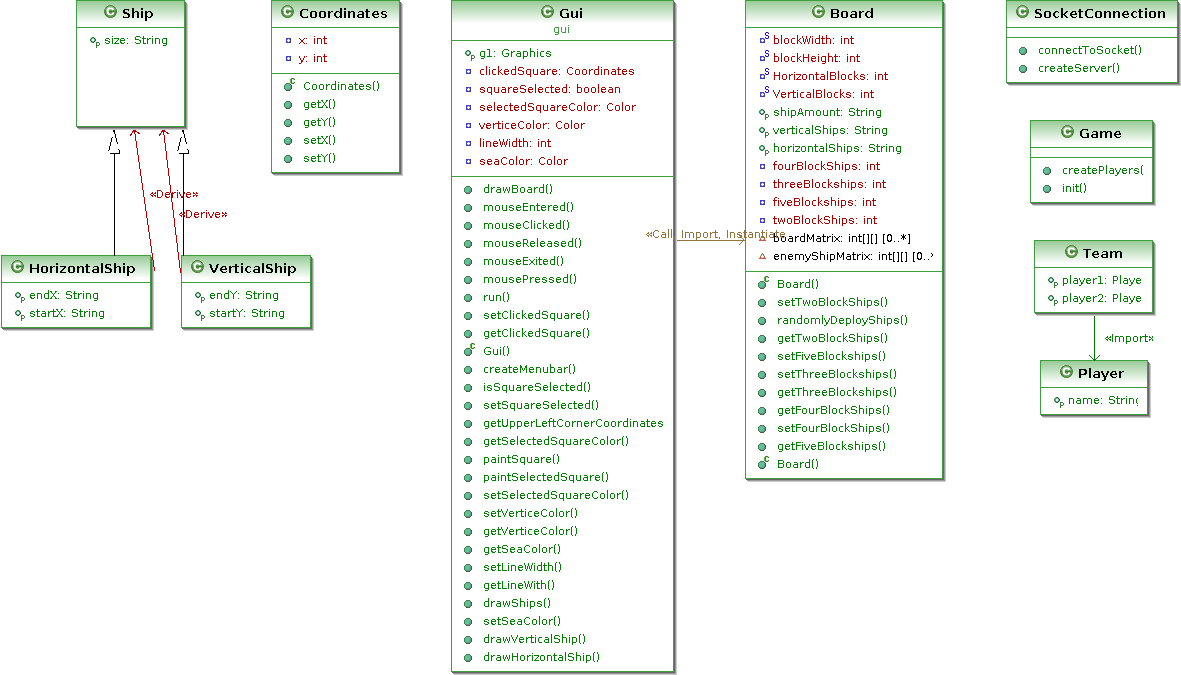
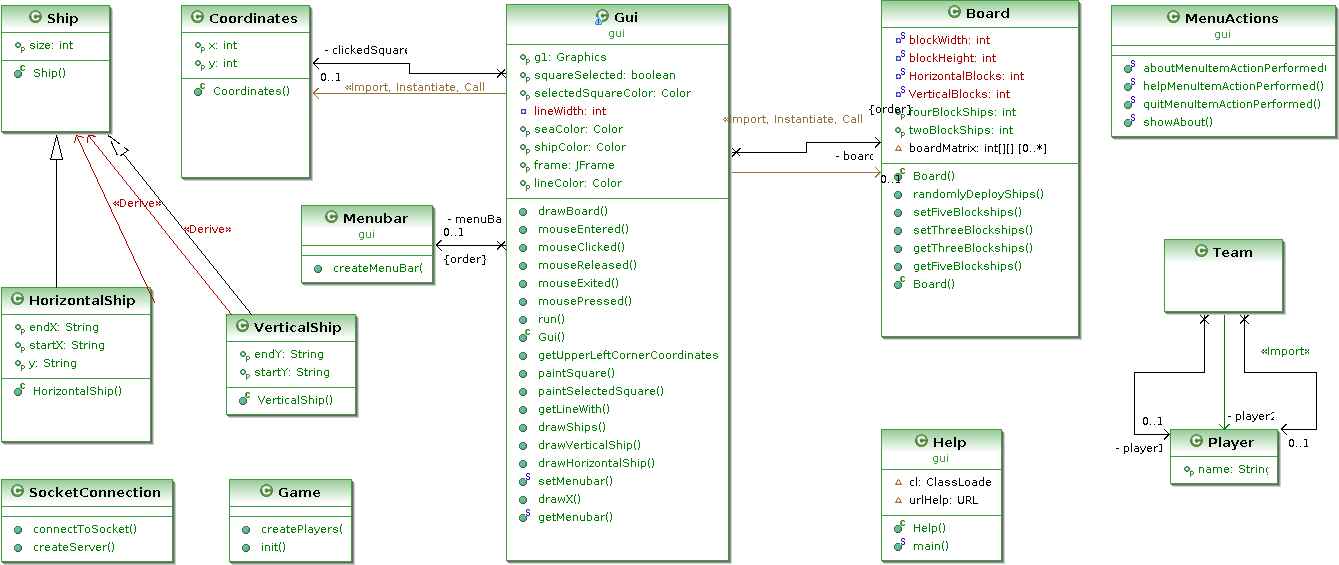
Updated UML class diagram.

diff --git a/sink-ship/src/gui/Gui.java b/sink-ship/src/gui/Gui.java
@@ -34,21 +34,51 @@ import javax.swing.JOptionPane;
 import javax.swing.JPanel;
 
 /**
- * @author Petri Tuononen
+ * @author  Petri Tuononen
  */
 public class Gui extends JPanel implements Runnable, MouseListener {
 
 	private static final long serialVersionUID = 8491464846988855678L;
 	//global variables
+	/**
+	 * @uml.property  name="board"
+	 * @uml.associationEnd  
+	 */
 	private static Board board;
+	/**
+	 * @uml.property  name="clickedSquare"
+	 * @uml.associationEnd  
+	 */
 	private Coordinates clickedSquare;
+	/**
+	 * @uml.property  name="squareSelected"
+	 */
 	private boolean squareSelected = false;
+	/**
+	 * @uml.property  name="seaColor"
+	 */
 	private Color seaColor = new Color(81,167,255);
+	/**
+	 * @uml.property  name="selectedSquareColor"
+	 */
 	private Color selectedSquareColor = new Color(159, 227, 126);
+	/**
+	 * @uml.property  name="lineColor"
+	 */
 	private Color lineColor = new Color(67,104, 142);
+	/**
+	 * @uml.property  name="shipColor"
+	 */
 	private Color shipColor = new Color(217, 56, 56);
 	private int lineWidth = 2;
+	/**
+	 * @uml.property  name="frame"
+	 */
 	public JFrame frame;
+	/**
+	 * @uml.property  name="menuBar"
+	 * @uml.associationEnd  
+	 */
 	private static Menubar menuBar;
 //	private JMenu menu;
 //	private JMenu menu2;
@@ -166,7 +196,8 @@ public class Gui extends JPanel implements Runnable, MouseListener {
 
 	/**
 	 * Get frame.
-	 * @return frame 
+	 * @return  frame
+	 * @uml.property  name="frame"
 	 */
 	public JFrame getFrame() {
 		return frame;
@@ -174,7 +205,8 @@ public class Gui extends JPanel implements Runnable, MouseListener {
 	
 	/**
 	 * Set frame.
-	 * @return frame 
+	 * @return  frame
+	 * @uml.property  name="frame"
 	 */
 	public void setFrame(JFrame frame) {
 		this.frame = frame;
@@ -229,7 +261,8 @@ public class Gui extends JPanel implements Runnable, MouseListener {
 
 	/**
 	 * Set width of the line.
-	 * @param lineWidth
+	 * @param  lineWidth
+	 * @uml.property  name="lineWidth"
 	 */
 	public void setLineWidth(int lineWidth) {
 		this.lineWidth = lineWidth;
@@ -237,7 +270,8 @@ public class Gui extends JPanel implements Runnable, MouseListener {
 
 	/**
 	 * Get color of the sea.
-	 * @return seaColor Color
+	 * @return  seaColor Color
+	 * @uml.property  name="seaColor"
 	 */
 	public Color getSeaColor() {
 		return seaColor;
@@ -245,7 +279,8 @@ public class Gui extends JPanel implements Runnable, MouseListener {
 
 	/**
 	 * Set color of the sea.
-	 * @param seaColor Color
+	 * @param seaColor  Color
+	 * @uml.property  name="seaColor"
 	 */
 	public void setSeaColor(Color seaColor) {
 		this.seaColor = seaColor;
@@ -253,7 +288,8 @@ public class Gui extends JPanel implements Runnable, MouseListener {
 
 	/**
 	 * Get color of the selected square.
-	 * @return selectedSquareColor Color
+	 * @return  selectedSquareColor Color
+	 * @uml.property  name="selectedSquareColor"
 	 */
 	public Color getSelectedSquareColor() {
 		return selectedSquareColor;
@@ -261,7 +297,8 @@ public class Gui extends JPanel implements Runnable, MouseListener {
 
 	/**
 	 * Set color for the selected square.
-	 * @param selectedSquareColor
+	 * @param  selectedSquareColor
+	 * @uml.property  name="selectedSquareColor"
 	 */
 	public void setSelectedSquareColor(Color selectedSquareColor) {
 		this.selectedSquareColor = selectedSquareColor;
@@ -269,7 +306,8 @@ public class Gui extends JPanel implements Runnable, MouseListener {
 
 	/**
 	 * Get the color of the ship.
-	 * @return shipColor
+	 * @return  shipColor
+	 * @uml.property  name="shipColor"
 	 */
 	public Color getShipColor() {
 		return shipColor;
@@ -277,7 +315,8 @@ public class Gui extends JPanel implements Runnable, MouseListener {
 
 	/**
 	 * Set the color for the ship.
-	 * @param shipColor
+	 * @param  shipColor
+	 * @uml.property  name="shipColor"
 	 */
 	public void setShipColor(Color shipColor) {
 		this.shipColor = shipColor;
@@ -285,7 +324,8 @@ public class Gui extends JPanel implements Runnable, MouseListener {
 
 	/**
 	 * Get color of the line.
-	 * @return verticeColor Color
+	 * @return  verticeColor Color
+	 * @uml.property  name="lineColor"
 	 */
 	public Color getLineColor() {
 		return lineColor;
@@ -293,7 +333,8 @@ public class Gui extends JPanel implements Runnable, MouseListener {
 
 	/**
 	 * Set color of the line..
-	 * @param lineColor Color
+	 * @param lineColor  Color
+	 * @uml.property  name="lineColor"
 	 */
 	public void setLineColor(Color lineColor) {
 		this.lineColor = lineColor;
@@ -302,6 +343,7 @@ public class Gui extends JPanel implements Runnable, MouseListener {
 	/**
 	 * Get clicked square.
 	 * @return
+	 * @uml.property  name="clickedSquare"
 	 */
 	public Coordinates getClickedSquare() {
 		return clickedSquare;
@@ -309,7 +351,8 @@ public class Gui extends JPanel implements Runnable, MouseListener {
 
 	/**
 	 * Set clicked square.
-	 * @param clickedSquare
+	 * @param  clickedSquare
+	 * @uml.property  name="clickedSquare"
 	 */
 	public void setClickedSquare(Coordinates clickedSquare) {
 		this.clickedSquare = clickedSquare;
@@ -318,6 +361,7 @@ public class Gui extends JPanel implements Runnable, MouseListener {
 	/**
 	 * Returns true if square is selected, false otherwise.
 	 * @return
+	 * @uml.property  name="squareSelected"
 	 */
 	public boolean isSquareSelected() {
 		return squareSelected;
@@ -325,7 +369,8 @@ public class Gui extends JPanel implements Runnable, MouseListener {
 
 	/**
 	 * Set selected square.
-	 * @param squareSelected
+	 * @param  squareSelected
+	 * @uml.property  name="squareSelected"
 	 */
 	public void setSquareSelected(boolean squareSelected) {
 		this.squareSelected = squareSelected;

diff --git a/sink-ship/src/general/Board.java b/sink-ship/src/general/Board.java
@@ -17,9 +17,7 @@ along with this program. If not, see <http://www.gnu.org/licenses/>.
 package general;
 
 /**
- * @author Petri Tuononen
- * 
- * TODO: To play against AI or to debug the enemy ships could be placed using the random matrix placement.
+ * @author  Petri Tuononen  TODO: To play against AI or to debug the enemy ships could be placed using the random matrix placement.
  */
 public class Board {
 
@@ -30,6 +28,7 @@ public class Board {
 	
 	/**
 	 * The amount of different size of the ships on the boards.
+	 * @uml.property  name="twoBlockShips"
 	 */
 	private int twoBlockShips;
 
@@ -40,6 +39,7 @@ public class Board {
 
 	/**
 	 * The amount of four block ships on the board.
+	 * @uml.property  name="fourBlockShips"
 	 */
 	private int fourBlockShips;
 	
@@ -75,6 +75,7 @@ public class Board {
 	/**
 	 * Get the amount of the block ships on the board.
 	 * @return
+	 * @uml.property  name="twoBlockShips"
 	 */
 	public int getTwoBlockShips() {
 		return twoBlockShips;
@@ -82,7 +83,8 @@ public class Board {
 
 	/**
 	 * Set the amount of the block ships on the board.
-	 * @param twoBlockShips
+	 * @param  twoBlockShips
+	 * @uml.property  name="twoBlockShips"
 	 */
 	public void setTwoBlockShips(int twoBlockShips) {
 		this.twoBlockShips = twoBlockShips;
@@ -106,7 +108,8 @@ public class Board {
 
 	/**
 	 * Get the amount of four block ships on the board.
-	 * @return fourBlockShips
+	 * @return  fourBlockShips
+	 * @uml.property  name="fourBlockShips"
 	 */
 	public int getFourBlockShips() {
 		return fourBlockShips;
@@ -114,7 +117,8 @@ public class Board {
 
 	/**
 	 * Set the amount of four block ships on the board.
-	 * @param fourBlockShips
+	 * @param  fourBlockShips
+	 * @uml.property  name="fourBlockShips"
 	 */
 	public void setFourBlockShips(int fourBlockShips) {
 		this.fourBlockShips = fourBlockShips;

diff --git a/sink-ship/src/general/Coordinates.java b/sink-ship/src/general/Coordinates.java
@@ -17,12 +17,19 @@
 package general;
 
 /**
- * @author Petri Tuononen
+ * @author  Petri Tuononen
  */
 public class Coordinates {
 
 	//global variables
-	private int x, y;
+	/**
+	 * @uml.property  name="x"
+	 */
+	private int x;
+	/**
+	 * @uml.property  name="y"
+	 */
+	private int y;
 	
 	/**
 	 * Constructor.
@@ -36,7 +43,8 @@ public class Coordinates {
 	
 	/**
 	 * Get value of x.
-	 * @return x
+	 * @return  x
+	 * @uml.property  name="x"
 	 */
 	public int getX() {
 		return x;
@@ -44,7 +52,8 @@ public class Coordinates {
 	
 	/**
 	 * Get value of y.
-	 * @return y
+	 * @return  y
+	 * @uml.property  name="y"
 	 */
 	public int getY() {
 		return y;
@@ -52,7 +61,8 @@ public class Coordinates {
 	
 	/**
 	 * Set value for x.
-	 * @param x
+	 * @param  x
+	 * @uml.property  name="x"
 	 */
 	public void setX(int x) {
 		this.x = x;
@@ -60,7 +70,8 @@ public class Coordinates {
 	
 	/**
 	 * Set value of y.
-	 * @param y
+	 * @param  y
+	 * @uml.property  name="y"
 	 */
 	public void setY(int y) {
 		this.y = y;

diff --git a/sink-ship/src/general/HorizontalShip.java b/sink-ship/src/general/HorizontalShip.java
@@ -17,7 +17,7 @@ along with this program. If not, see <http://www.gnu.org/licenses/>.
 package general;
 
 /**
- * @author Petri Tuononen
+ * @author  Petri Tuononen
  */
 public class HorizontalShip extends Ship {
 	
@@ -42,6 +42,7 @@ public class HorizontalShip extends Ship {
 	/**
 	 * Get y coordinate.
 	 * @return
+	 * @uml.property  name="y"
 	 */
 	public String getY() {
 		return y;
@@ -49,7 +50,8 @@ public class HorizontalShip extends Ship {
 
 	/**
 	 * Set y coodinate.
-	 * @param y
+	 * @param  y
+	 * @uml.property  name="y"
 	 */
 	public void setY(String y) {
 		this.y = y;

diff --git a/sink-ship/src/general/Team.java b/sink-ship/src/general/Team.java
@@ -23,6 +23,7 @@ public class Team {
 
 	/**
 	 * @uml.property  name="player1"
+	 * @uml.associationEnd  
 	 */
 	private Player player1;
 
@@ -46,6 +47,7 @@ public class Team {
 
 	/**
 	 * @uml.property  name="player2"
+	 * @uml.associationEnd  
 	 */
 	private Player player2;
 
